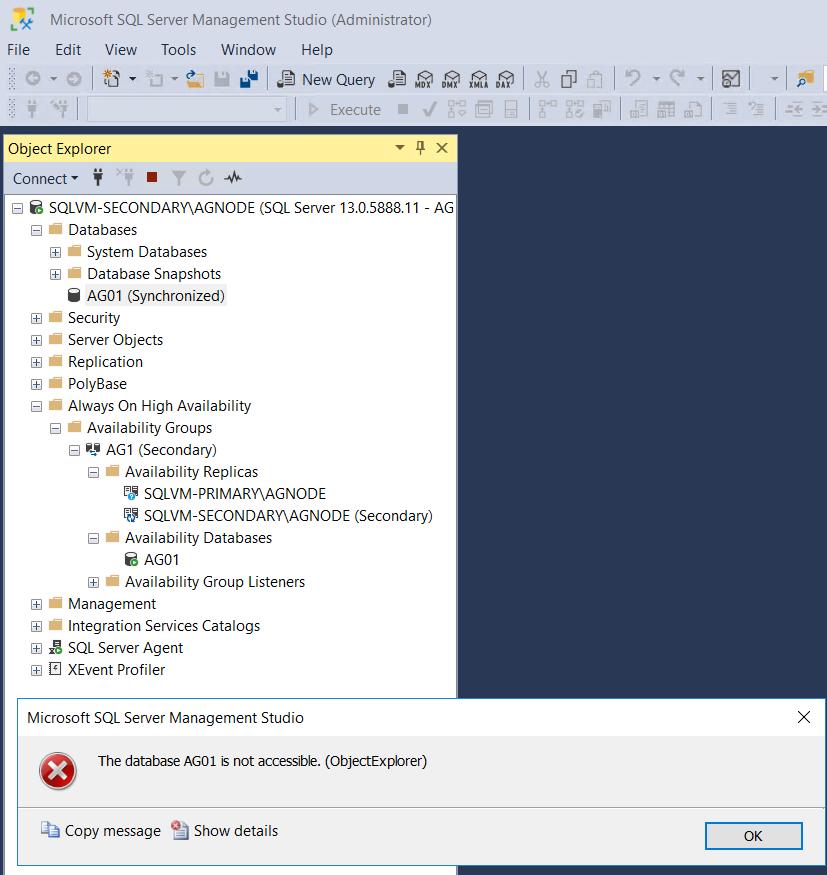
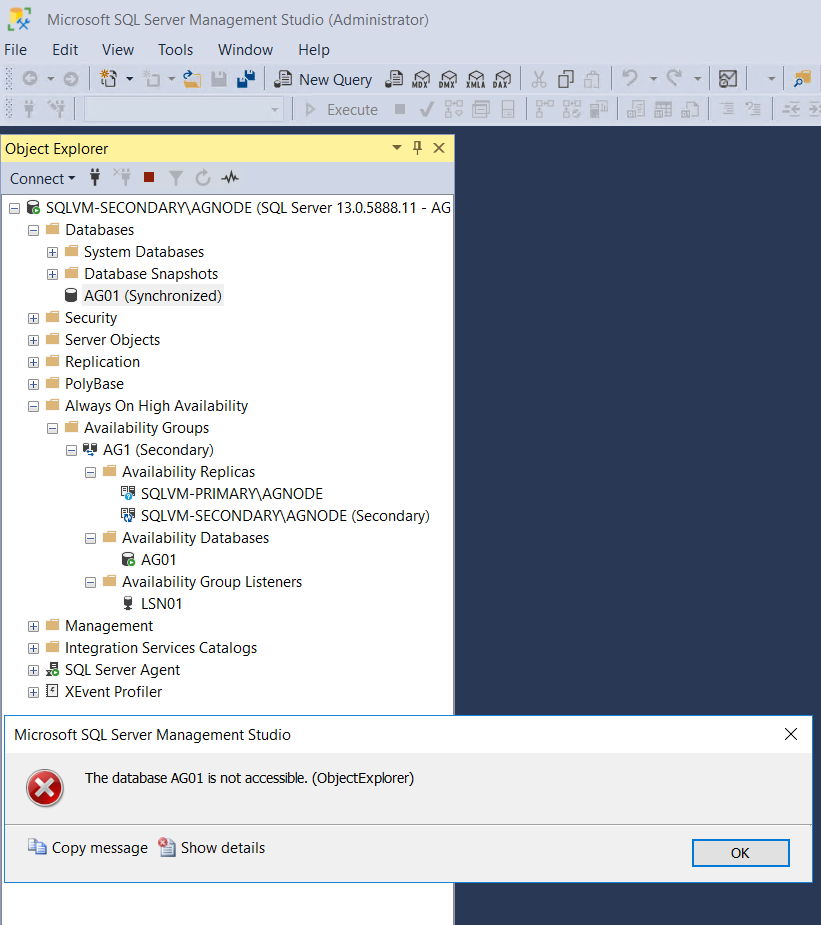
GitBook: [master] 21 pages and 4 assets modified

Changed region(s): [[0.0, 0.0, 1.0, 1.0]]

diff --git a/rdbms/sql-server/sql-server-2019-alwayson-group-vm/ag.md b/rdbms/sql-server/sql-server-2019-alwayson-group-vm/ag.md
@@ -56,11 +56,15 @@ Automatic Failover 체크 해줘야 장애 발생시 자동 Failover
 
 ![](../../../.gitbook/assets/qrmset19.png)
 
-백업 옵션 적절히 선택 후 Listener와 Read-Only Routing은 패스 
+백업 옵션 적절히 선택 
 
 ![](../../../.gitbook/assets/qrmset20.png)
 
-동기화 옵션 선택에서 Automatic seeding 을 선
+리스너 생성 LSN01, 10.0.1.100 STATIC IP 설정 
+
+![](../../../.gitbook/assets/qrmset27.png)
+
+동기화 옵션 선택에서 Automatic seeding 을 선택 
 
 ![](../../../.gitbook/assets/qrmset21.png)
 
@@ -82,7 +86,7 @@ Database가 대용량일 경우 SQLVM-PRIMARY와 SQLVM-SECONDARY에 복원 후 j
 
 완료 후 SQLVM-PRIMARY서버에 다음과 같이 가용성 그룹이 생성됨 
 
-![](../../../.gitbook/assets/qrmset25%20%281%29.png)
+![](../../../.gitbook/assets/qrmset25%20%282%29.png)
 
 SQLVM-SECONDARY 서버에 직접 접속하여 동일하게 구성 되었고 DB클릭시 액세스 불가 에러 메세지 발생 
 
